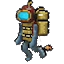
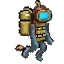
r

diff --git a/index.html b/index.html
@@ -13,12 +13,13 @@
         physics: {
             default: 'arcade',
             arcade: {
-                gravity: { y: 200 }
+                gravity: { y: 20 }
             }
         },
         scene: {
             preload: preload,
-            create: create
+            create: create,
+            update: update
         }
     };
 
@@ -31,12 +32,13 @@
         this.load.image('water', './assets/ocean1stperson.webp');
         this.load.image('boat', 'assets/airBoat.webp');
         this.load.image('diverp', 'assets/diverp.png');
+        this.load.image('diverpRight', 'assets/diverpRight.png');
         this.load.image('bubble', 'assets/bubble.png');
     }
 
     function create ()
     {
-        this.add.image(400, 300, 'water');
+        this.add.image(400, 300, 'water').setScale(1.6);
         var particles = this.add.particles('bubble');
 
         var emitter = particles.createEmitter({
@@ -47,15 +49,39 @@
             blendMode: 'ADD'
         });
 
-        var diver = this.physics.add.image(100, 100, 'diverp');
-        diver.setTexture('diverpRight', 'assets/diverpRight.png');
+        var diver = this.physics.add.sprite(100, 100, 'diverp');
+
         // diver.setHeight(50);
         // diver.setWidth(50);
         diver.setVelocity(60, 50);
+
         diver.setBounce(1, 1);
         diver.setCollideWorldBounds(true);
 
         emitter.startFollow(diver);
+
+        cursors = this.input.keyboard.createCursorKeys();
+    }
+
+    function update ()
+    {
+        if (cursors.left.isDown)
+        {
+         
+            diver.setSprite('diverp', 'assets/diverp.png');
+        }
+        if (cursors.right.isDown)
+        {
+           
+            diver.setSprite('diverpRight', 'assets/diverpRight.png');
+        }
+
+        
+        // if (diver.velocity.x > 0 ) { //&& diver.texture == 'diverp'
+        //     console.log('chg');
+        //     diver.setTexture('diverpRight', 'assets/diverpRight.png');
+        // }
+      
     }
     </script>
 
